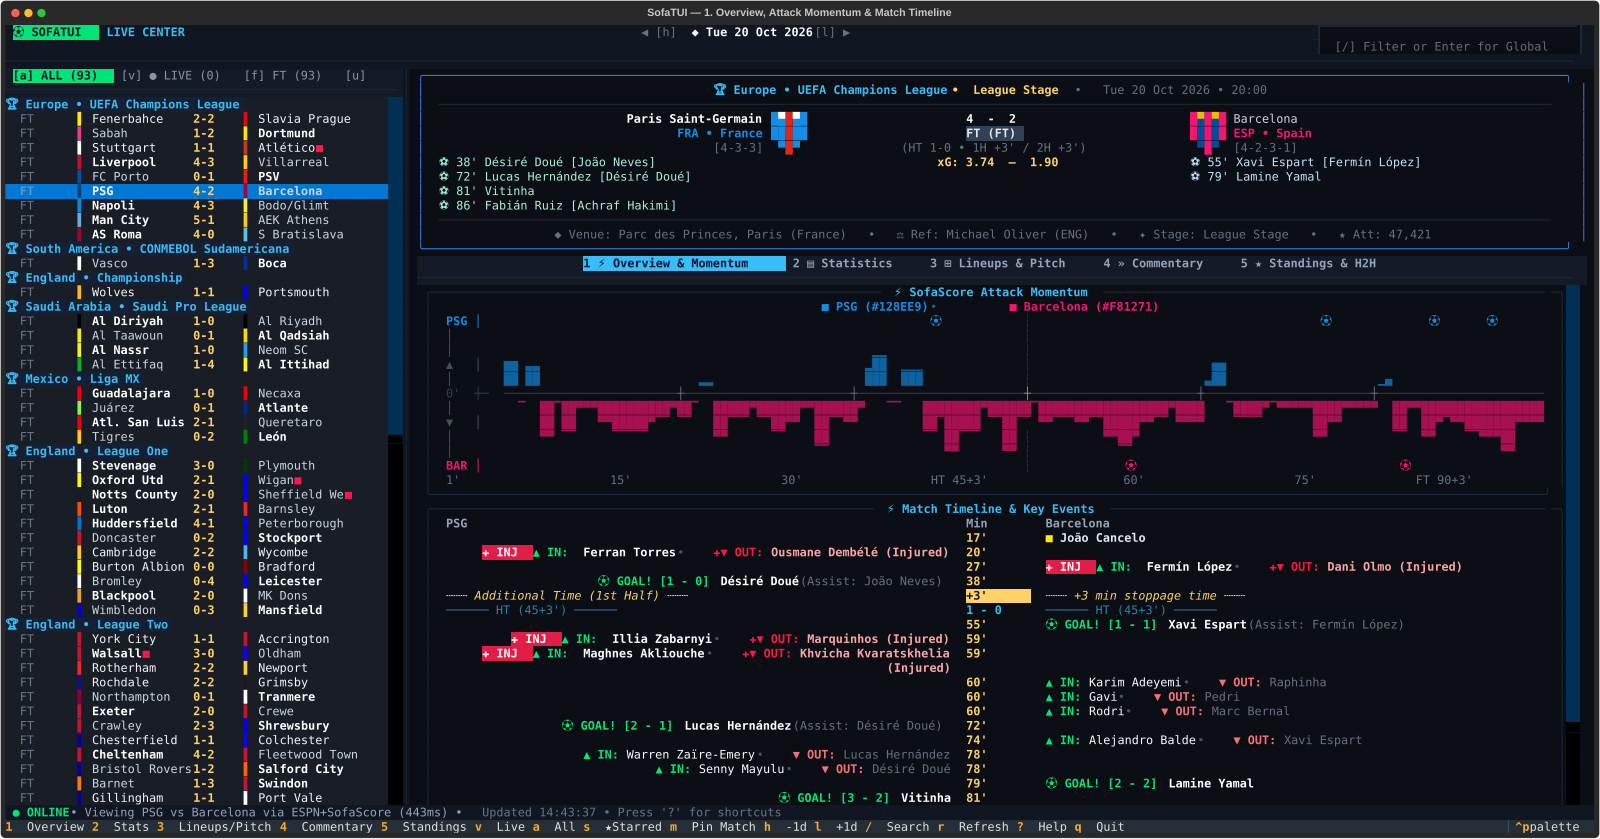
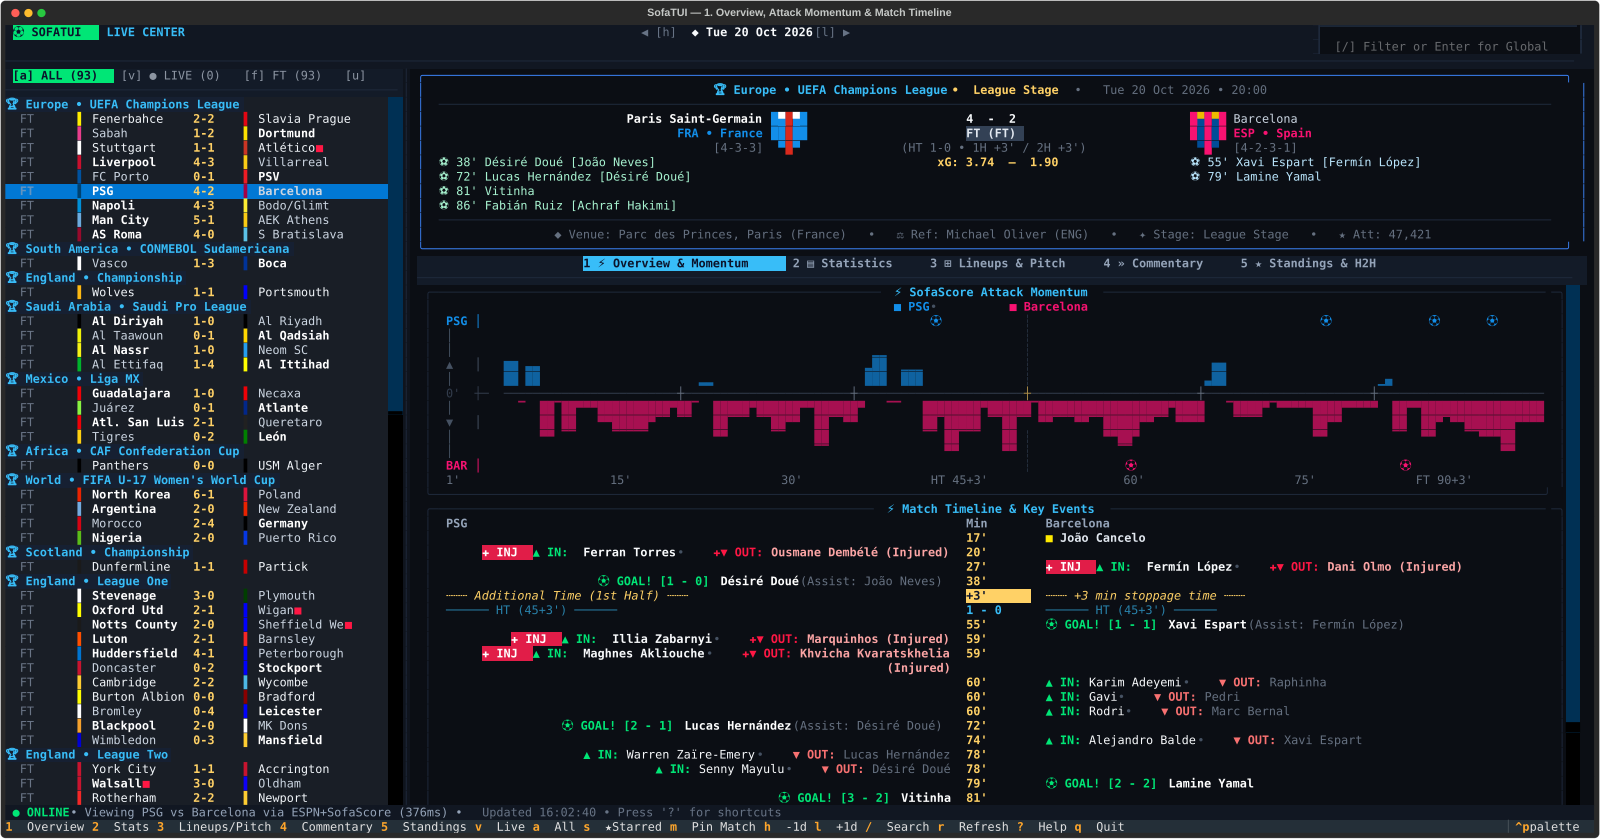
ui: redesign 2D tactical pitch with clean closed-rectangle geometry and exact centerline alignment

diff --git a/src/sofatui/renderers.py b/src/sofatui/renderers.py
@@ -942,52 +942,77 @@ def _build_pitch_row(
     motm_id: int,
     selected_player_id: int,
 ) -> Table:
-    """Build one tactical line row with symmetric horizontal spacing across the pitch."""
-    row_tbl = Table.grid(expand=True, padding=(0, 1))
-    row_tbl.add_column(width=7, justify="left")
+    """Build one tactical line row with exact symmetric horizontal spacing across the pitch."""
+    row_tbl = Table(box=None, expand=True, show_header=False, show_edge=False, padding=(0, 0))
+    row_tbl.add_column(width=6, justify="left")
     n = len(r_players)
     cells: list[RenderableType] = [Text(f" {line_label:<3} │", style=f"bold {side_color}")]
     p_nodes = [_format_pitch_player(p, motm_id, selected_player_id) for p in r_players]
 
     if n == 1:
-        row_tbl.add_column(ratio=3)
-        row_tbl.add_column(justify="center", ratio=4)
-        row_tbl.add_column(ratio=3)
-        cells.extend([Text(""), p_nodes[0], Text("")])
+        row_tbl.add_column(ratio=1, justify="center")
+        cells.append(Align.center(p_nodes[0]))
     elif n == 2:
-        row_tbl.add_column(ratio=2)
+        row_tbl.add_column(ratio=1)
         row_tbl.add_column(justify="center", ratio=3)
         row_tbl.add_column(justify="center", ratio=3)
-        row_tbl.add_column(ratio=2)
-        cells.extend([Text(""), p_nodes[0], p_nodes[1], Text("")])
+        row_tbl.add_column(ratio=1)
+        cells.extend([Text(""), Align.center(p_nodes[0]), Align.center(p_nodes[1]), Text("")])
     elif n == 3:
-        row_tbl.add_column(ratio=1)
-        row_tbl.add_column(justify="center", ratio=3)
-        row_tbl.add_column(justify="center", ratio=3)
-        row_tbl.add_column(justify="center", ratio=3)
-        row_tbl.add_column(ratio=1)
-        cells.extend([Text(""), p_nodes[0], p_nodes[1], p_nodes[2], Text("")])
+        row_tbl.add_column(ratio=1, justify="center")
+        row_tbl.add_column(ratio=1, justify="center")
+        row_tbl.add_column(ratio=1, justify="center")
+        cells.extend([Align.center(p_nodes[0]), Align.center(p_nodes[1]), Align.center(p_nodes[2])])
     else:
-        for _ in r_players:
+        for p_node in p_nodes:
             row_tbl.add_column(justify="center", ratio=1)
-        cells.extend(p_nodes)
+            cells.append(Align.center(p_node))
 
-    row_tbl.add_column(width=3, justify="right")
-    cells.append(Text("│ ", style=f"dim {side_color}"))
+    row_tbl.add_column(width=2, justify="right")
+    cells.append(Text("│", style=f"dim {side_color}"))
     row_tbl.add_row(*cells)
     return row_tbl
 
 
-def _build_pitch_spacer(side_color: str, center_mark: str = "┆") -> Table:
-    """Render a vertical breathing-room pitch line between tactical rows."""
-    sp = Table.grid(expand=True, padding=(0, 1))
-    sp.add_column(width=7, justify="left")
-    sp.add_column(justify="center", ratio=1)
-    sp.add_column(width=3, justify="right")
+def _build_pitch_marking_row(
+    side_color: str,
+    center_art: str,
+    art_style: str = "#15803d",
+    left_border: str = "     │",
+    right_border: str = "│",
+) -> Table:
+    """Render a centered pitch geometry line (penalty box or center circle arc) aligned with the sidelines."""
+    sp = Table(box=None, expand=True, show_header=False, show_edge=False, padding=(0, 0))
+    sp.add_column(width=6, justify="left")
+    sp.add_column(ratio=1, justify="center")
+    sp.add_column(width=2, justify="right")
     sp.add_row(
-        Text("     │", style=f"dim {side_color}"),
-        Text(center_mark, style="dim #15803d"),
-        Text("│ ", style=f"dim {side_color}"),
+        Text(left_border, style=f"dim {side_color}"),
+        Align.center(Text(center_art, style=art_style)),
+        Text(right_border, style=f"dim {side_color}"),
+    )
+    return sp
+
+
+def _build_pitch_full_line(
+    side_color: str,
+    left_corner: str,
+    right_corner: str,
+    center_piece: str = "",
+) -> Table:
+    """Render a full-width horizontal pitch boundary or halfway line between the left and right touchlines."""
+    sp = Table(box=None, expand=True, show_header=False, show_edge=False, padding=(0, 0))
+    sp.add_column(width=6, justify="left")
+    sp.add_column(ratio=1, justify="center")
+    sp.add_column(width=2, justify="right")
+    if center_piece:
+        mid: RenderableType = Rule(title=f"[bold {side_color}]{center_piece}[/]", style=f"dim {side_color}", characters="─")
+    else:
+        mid = Rule(style=f"dim {side_color}", characters="─")
+    sp.add_row(
+        Text(f"     {left_corner}", style=f"dim {side_color}"),
+        mid,
+        Text(right_corner, style=f"dim {side_color}"),
     )
     return sp
 
@@ -1006,43 +1031,50 @@ def render_tactical_pitch(
             border_style="#1e293b",
         )
 
+    ev = bundle.event
+    h_color, a_color = resolve_match_kit_colors(ev.home_team, ev.away_team)
     home_rows = _split_formation_rows(lu.home.starters, lu.home.formation)
     away_rows = list(reversed(_split_formation_rows(lu.away.starters, lu.away.formation)))
 
     pitch_lines: list[RenderableType] = []
 
-    # Home Goal / Header
-    h_hdr = Text(
-        f"┏━━━━━━━━━━━━━━ [HOME] {bundle.event.home_team.name} ({lu.home.formation or 'XI'}) ━━━ [ GOAL ] ━━━━━━━━━━━━━━┓",
-        style="bold #00e676",
-    )
+    # Home Team Header (outside the pitch boundary, zero text inside pitch lines)
+    h_hdr = Text()
+    h_hdr.append(f"■ {ev.home_team.name}", style=f"bold {h_color}")
+    if lu.home.formation:
+        h_hdr.append(f"  •  {lu.home.formation}", style="bold #cbd5e1")
     pitch_lines.append(Align.center(h_hdr))
 
-    for r_idx, (line_lbl, r_players) in enumerate(home_rows):
-        pitch_lines.append(_build_pitch_row(line_lbl, r_players, "#00e676", motm_id, selected_player_id))
-        if r_idx == 0:
-            pitch_lines.append(_build_pitch_spacer("#00e676", "╰─────────────┴─────────────╯"))
-        elif r_idx < len(home_rows) - 1:
-            pitch_lines.append(_build_pitch_spacer("#00e676", "┆"))
+    # Top Goal Line (closed rectangle top border with goal mouth in center)
+    pitch_lines.append(_build_pitch_full_line("#22c55e", "┌", "┐", "┬───────────┬"))
 
-    # Halfway Line with breathing room
-    pitch_lines.append(_build_pitch_spacer("#22c55e", "╭───╮"))
-    pitch_lines.append(
-        Rule(title="[bold #e2e8f0]━━━ ◯ HALFWAY LINE ◯ ━━━[/]", style="#22c55e")
-    )
-    pitch_lines.append(_build_pitch_spacer("#22c55e", "╰───╯"))
+    for r_idx, (line_lbl, r_players) in enumerate(home_rows):
+        pitch_lines.append(_build_pitch_row(line_lbl, r_players, "#22c55e", motm_id, selected_player_id))
+        if r_idx == 0:
+            pitch_lines.append(_build_pitch_marking_row("#22c55e", "└───────────────────────┘", "#15803d"))
+        elif r_idx < len(home_rows) - 1:
+            pitch_lines.append(_build_pitch_marking_row("#22c55e", " ", "#15803d"))
+
+    # Halfway Line & Center Circle (connected to touchlines with ├ and ┤)
+    pitch_lines.append(_build_pitch_marking_row("#22c55e", "╭───────╮", "#15803d"))
+    pitch_lines.append(_build_pitch_full_line("#22c55e", "├", "┤", "◯"))
+    pitch_lines.append(_build_pitch_marking_row("#22c55e", "╰───────╯", "#15803d"))
 
     for r_idx, (line_lbl, r_players) in enumerate(away_rows):
         if r_idx == len(away_rows) - 1 and len(away_rows) > 1:
-            pitch_lines.append(_build_pitch_spacer("#38bdf8", "╭─────────────┬─────────────╮"))
+            pitch_lines.append(_build_pitch_marking_row("#22c55e", "┌───────────────────────┐", "#15803d"))
         elif r_idx > 0:
-            pitch_lines.append(_build_pitch_spacer("#38bdf8", "┆"))
-        pitch_lines.append(_build_pitch_row(line_lbl, r_players, "#38bdf8", motm_id, selected_player_id))
+            pitch_lines.append(_build_pitch_marking_row("#22c55e", " ", "#15803d"))
+        pitch_lines.append(_build_pitch_row(line_lbl, r_players, "#22c55e", motm_id, selected_player_id))
 
-    a_hdr = Text(
-        f"┗━━━━━━━━━━━━━━ [AWAY] {bundle.event.away_team.name} ({lu.away.formation or 'XI'}) ━━━ [ GOAL ] ━━━━━━━━━━━━━━┛",
-        style="bold #38bdf8",
-    )
+    # Bottom Goal Line (closed rectangle bottom border with goal mouth in center)
+    pitch_lines.append(_build_pitch_full_line("#22c55e", "└", "┘", "┴───────────┴"))
+
+    # Away Team Header (outside the pitch boundary, zero text inside pitch lines)
+    a_hdr = Text()
+    a_hdr.append(f"■ {ev.away_team.name}", style=f"bold {a_color}")
+    if lu.away.formation:
+        a_hdr.append(f"  •  {lu.away.formation}", style="bold #cbd5e1")
     pitch_lines.append(Align.center(a_hdr))
 
     status_tag = "Confirmed Lineups" if lu.confirmed else "Predicted / Preliminary Lineups"
